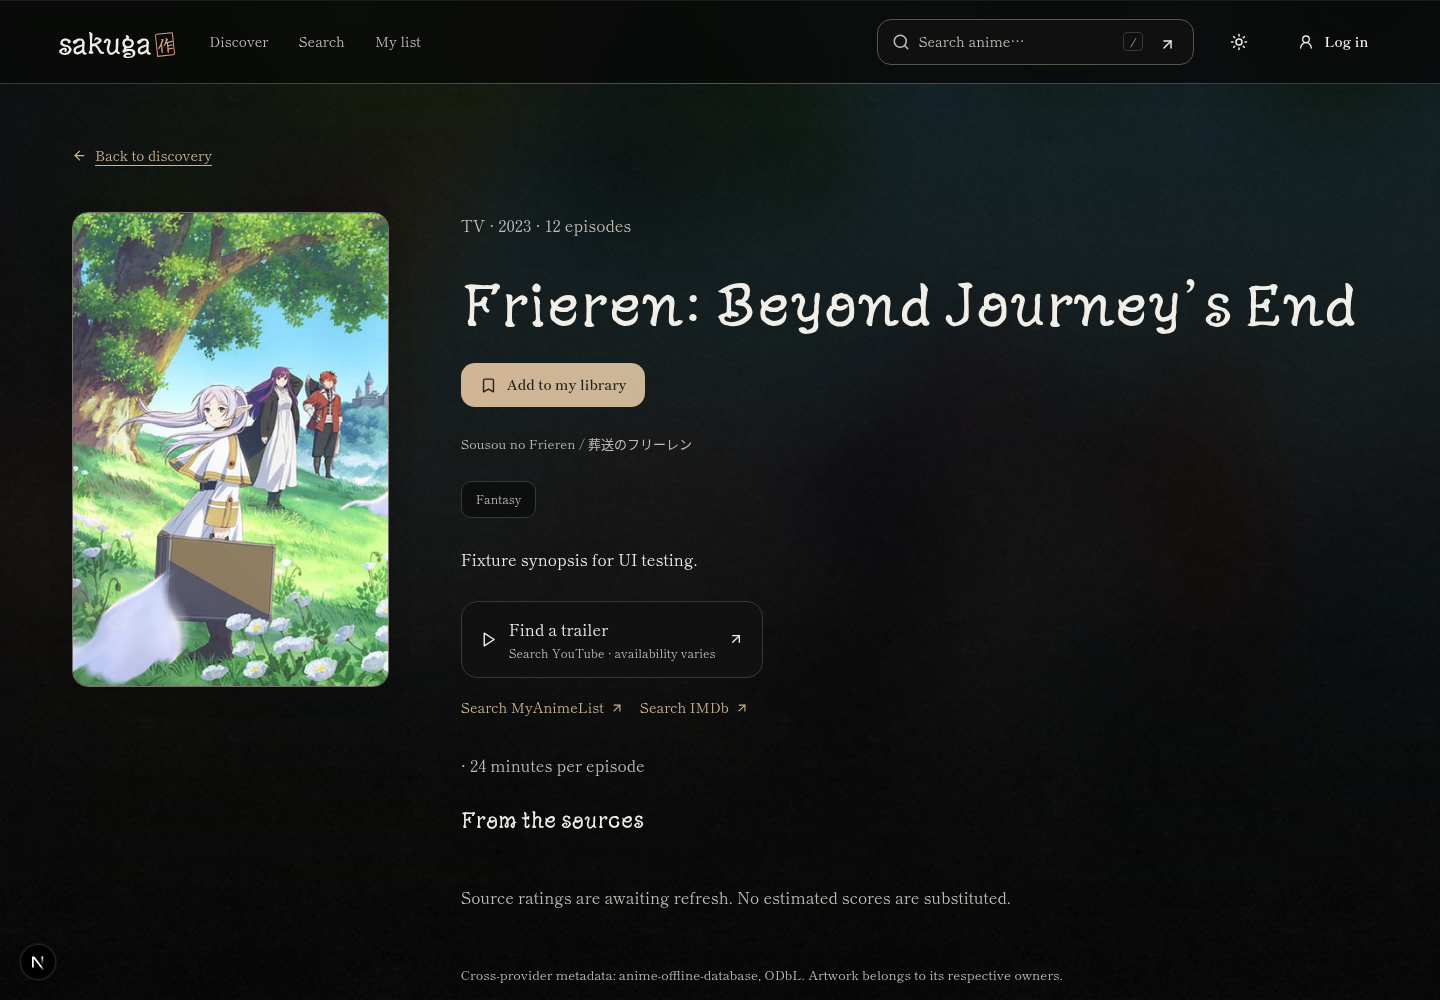
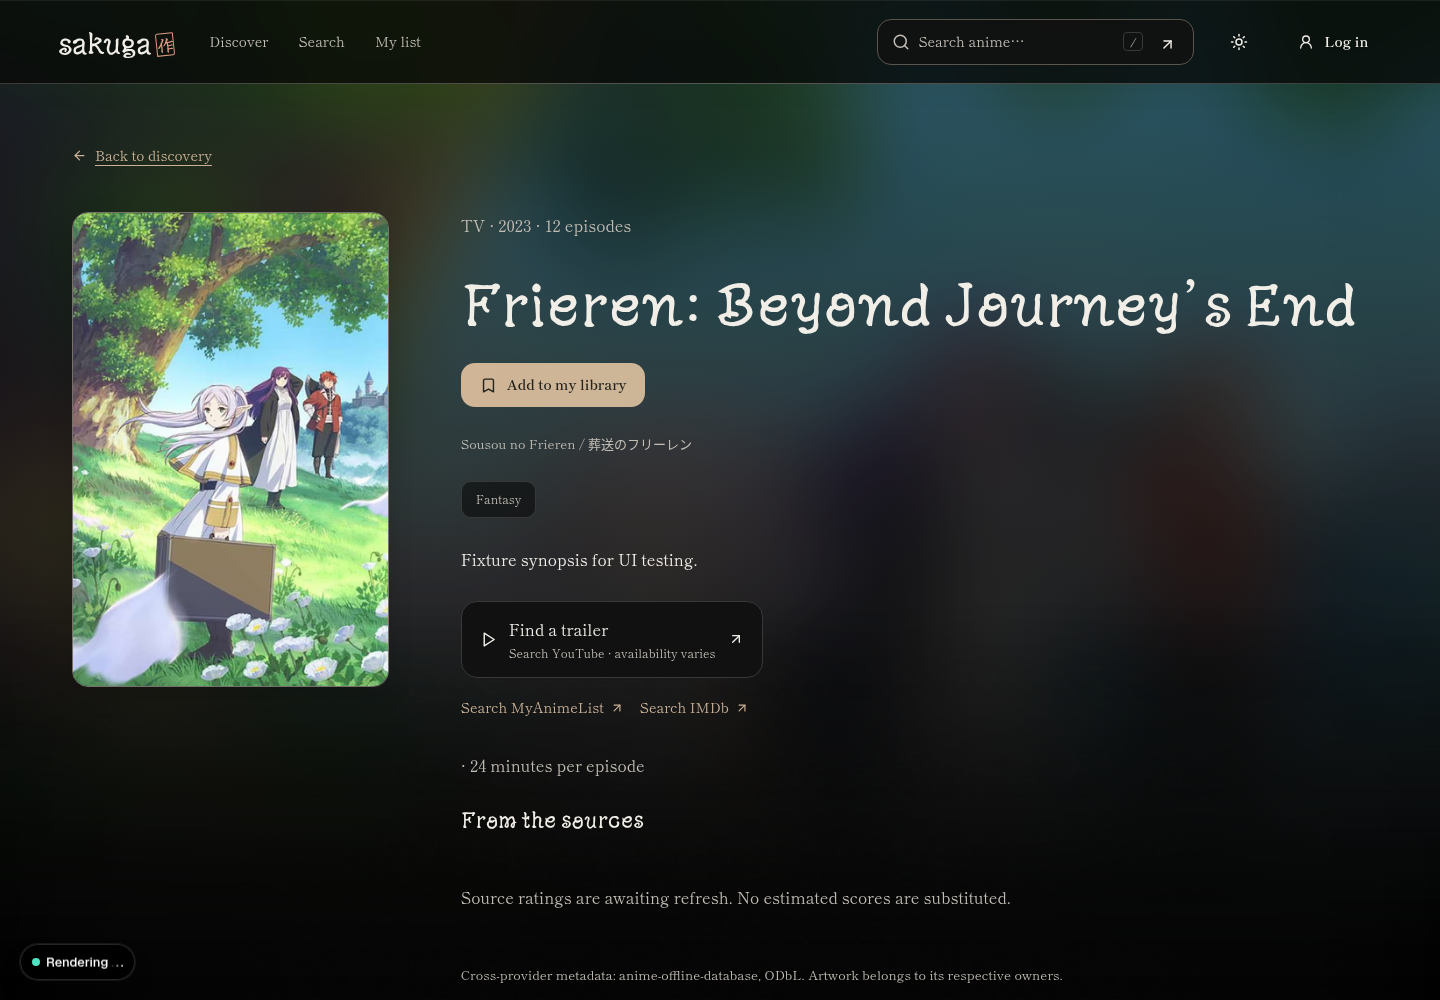
Clear shared poster focus when navigating to anime details

Changed region(s): [[0.125, 0.062, 1.0, 0.558], [0.0938, 0.155, 0.1562, 0.217], [0.0312, 0.93, 0.0625, 0.992]]

diff --git a/components/poster-flow.tsx b/components/poster-flow.tsx
@@ -1,11 +1,13 @@
 "use client";
 import { useEffect, useRef } from "react";
 import { animate } from "motion/mini";
+import { usePathname } from "next/navigation";
 import { useReducedMotion } from "./use-reduced-motion";
 /** One shared cover highlight; Motion mini preserves continuity when its target changes. */
 export function PosterFlow() {
   const ref = useRef<HTMLDivElement>(null),
-    reduced = useReducedMotion();
+    reduced = useReducedMotion(),
+    pathname = usePathname();
   useEffect(() => {
     const frame = ref.current;
     if (
@@ -16,6 +18,7 @@ export function PosterFlow() {
         .connection?.saveData
     )
       return;
+    frame.style.opacity = "0";
     let owner: Element | null = null,
       scrollFrame = 0,
       timer: ReturnType<typeof setTimeout> | undefined,
@@ -111,6 +114,6 @@ export function PosterFlow() {
       document.removeEventListener("visibilitychange", hide);
       document.documentElement.removeEventListener("pointerleave", hide);
     };
-  }, [reduced]);
+  }, [reduced, pathname]);
   return <div ref={ref} className="poster-flow" aria-hidden="true" />;
 }

diff --git a/tests/e2e/public.spec.ts b/tests/e2e/public.spec.ts
@@ -892,7 +892,9 @@ test("cover focus glides between posters and detail pages leave room around cont
   expect(
     await cover.evaluate((el) => parseFloat(getComputedStyle(el).borderRadius)),
   ).toBeGreaterThanOrEqual(14);
-  await page.goto("/anime/154587");
+  await links.nth(1).click();
+  await expect(page).toHaveURL(/\/anime\/154587$/);
+  await expect(flow).toHaveCSS("opacity", "0");
   await expect(page.locator(".anime-atmosphere img")).toBeVisible();
   const content = page.locator(".dossier>div:last-child");
   expect(

diff --git a/docs/2026-11-12-open-spacing-fluid-motion.md b/docs/2026-11-12-open-spacing-fluid-motion.md
@@ -22,3 +22,5 @@ Desktop/mobile browser coverage checks image-only borders, aligned columns, roun
 22 unique selected desktop/mobile cases passed across the targeted runs. The final eight affected cases passed together, including shared hover travel, account-session continuity, smooth scrolling and theme persistence. The restored backdrop checks passed on both sizes after updating the blur contract. Detail screenshots were visually reviewed in both layouts, and the last review removed a legacy synopsis border. Lint passed; production TypeScript/build validation follows before release.
 
 Final production webpack/TypeScript build passed after correcting Motion’s easing-name type. Working tree checked for whitespace errors before release.
+
+Final client-side navigation checks passed on desktop and mobile: clicking the second poster opens the detail route, clears the shared hover frame and retains the restored backdrop and spacing. The highlight leaf resets its animation/listeners on pathname changes so an old poster frame cannot linger over the next page.
